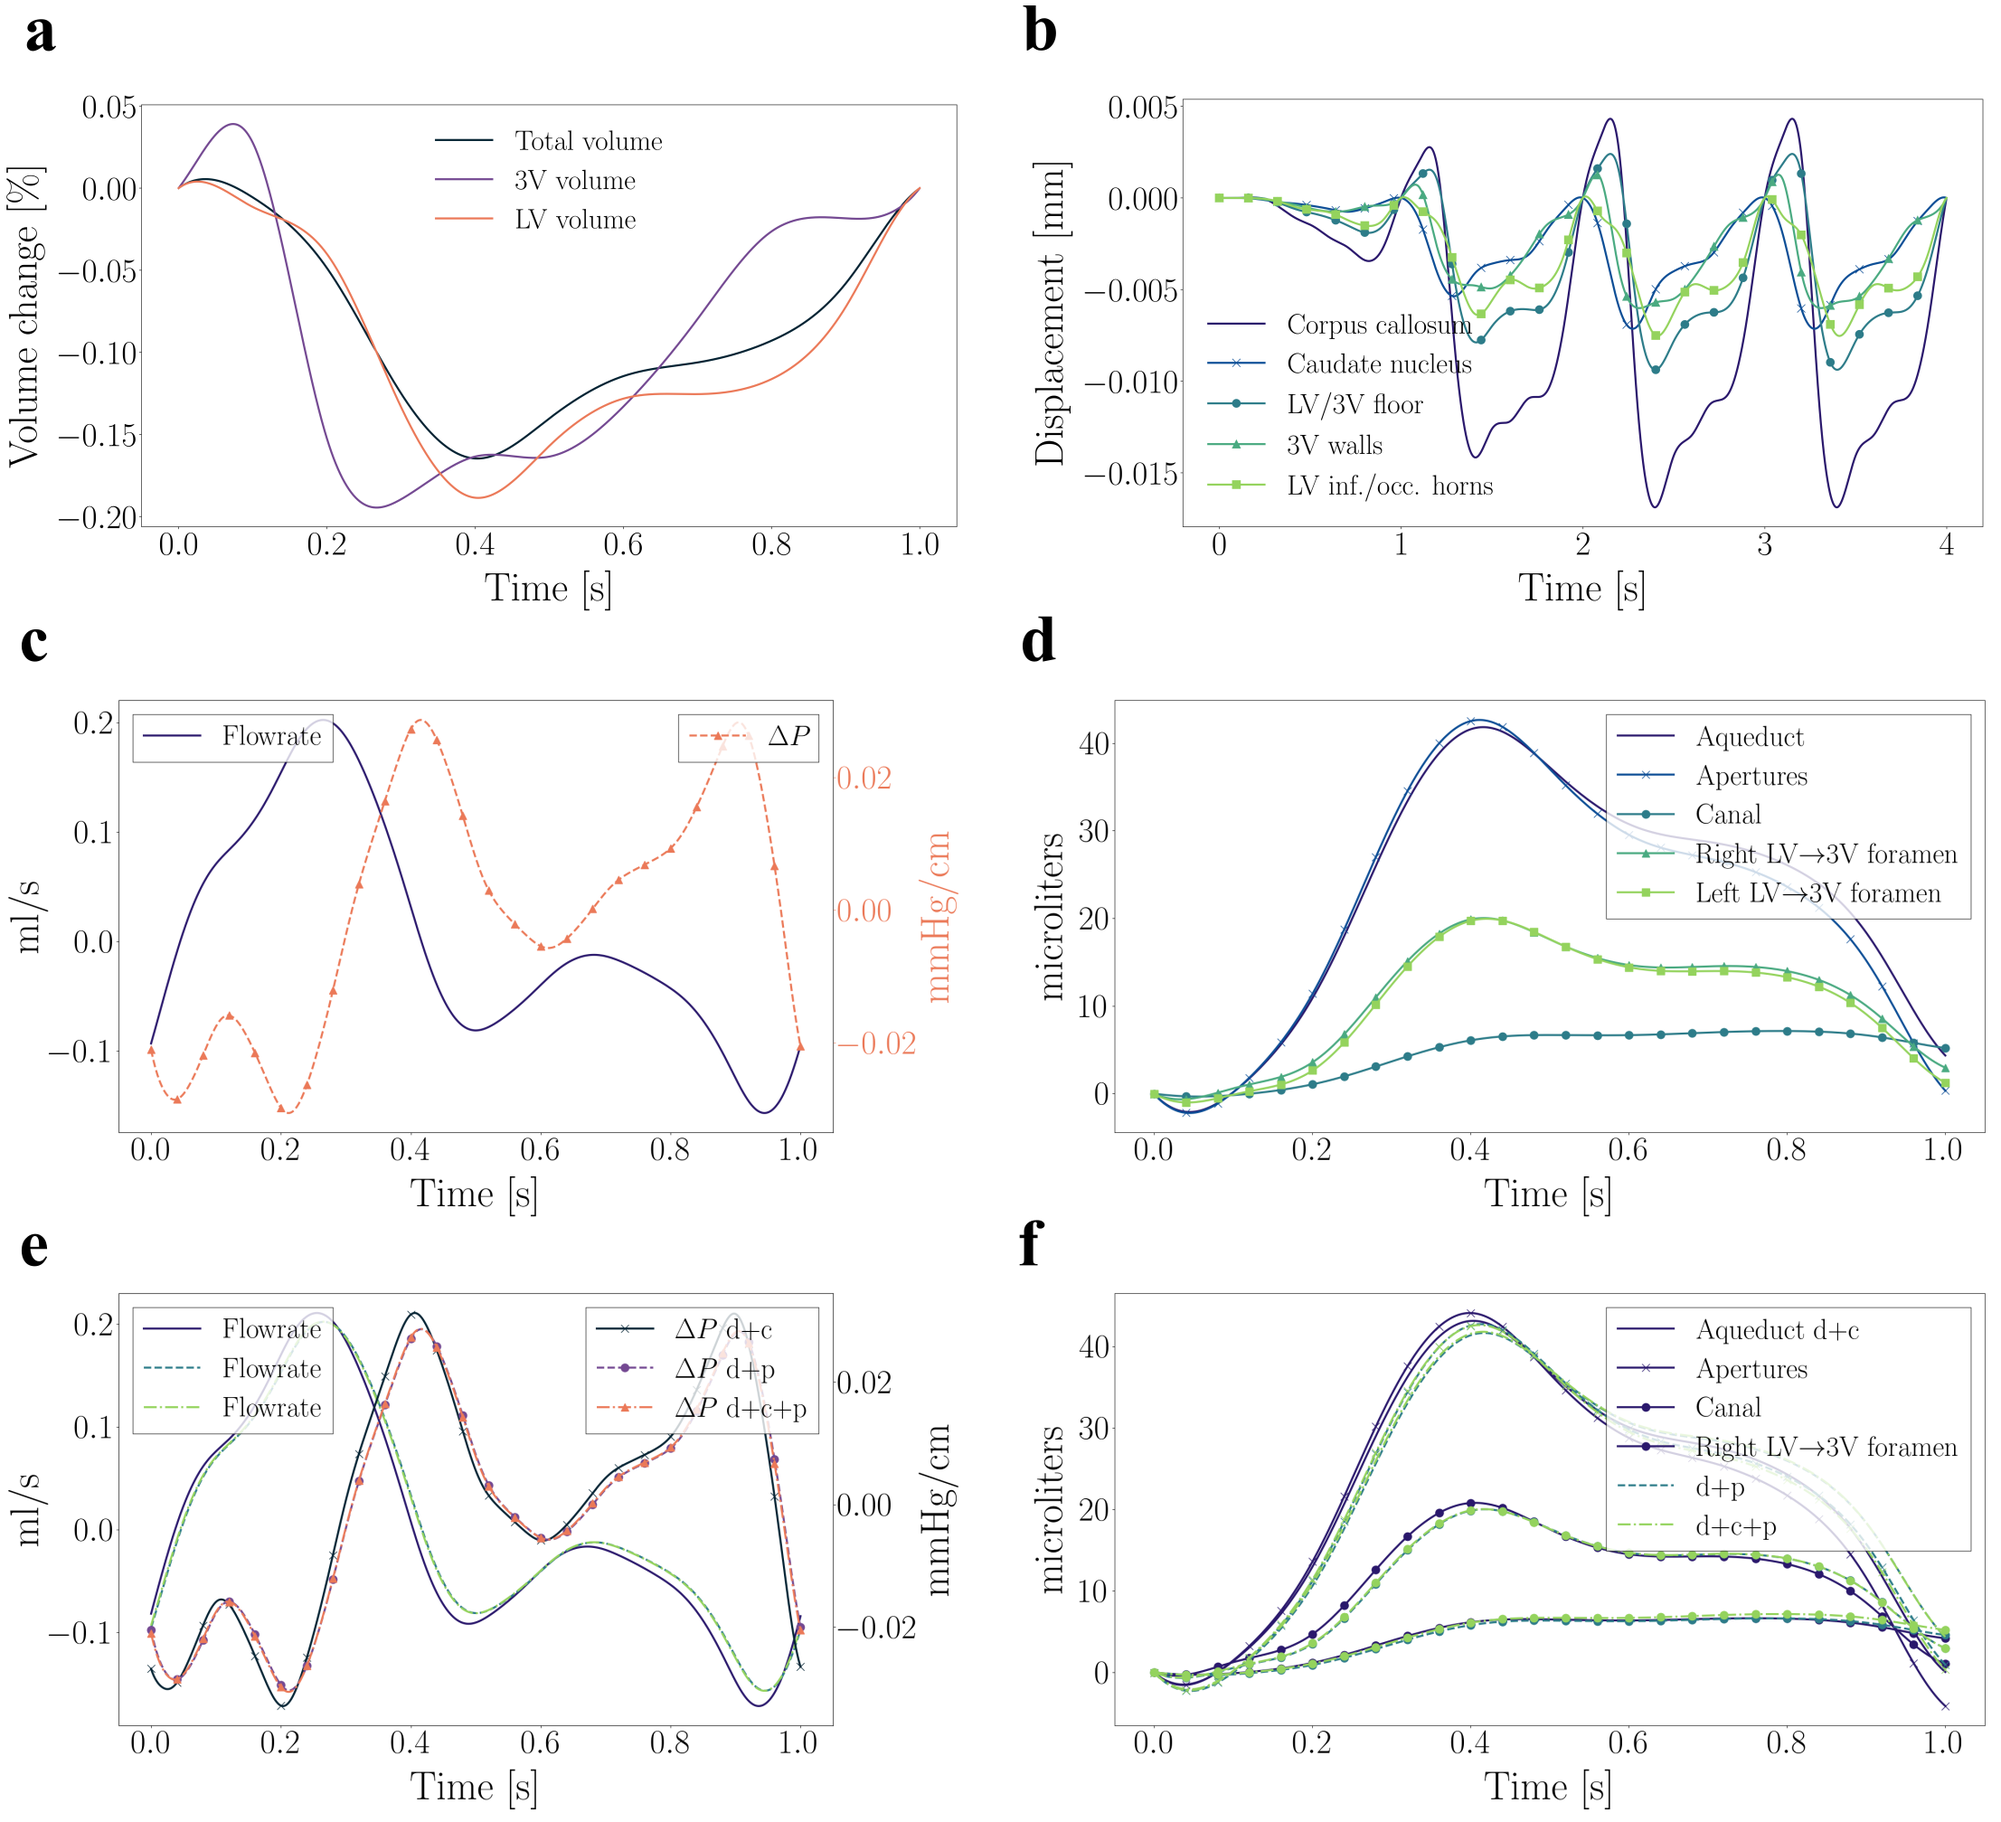
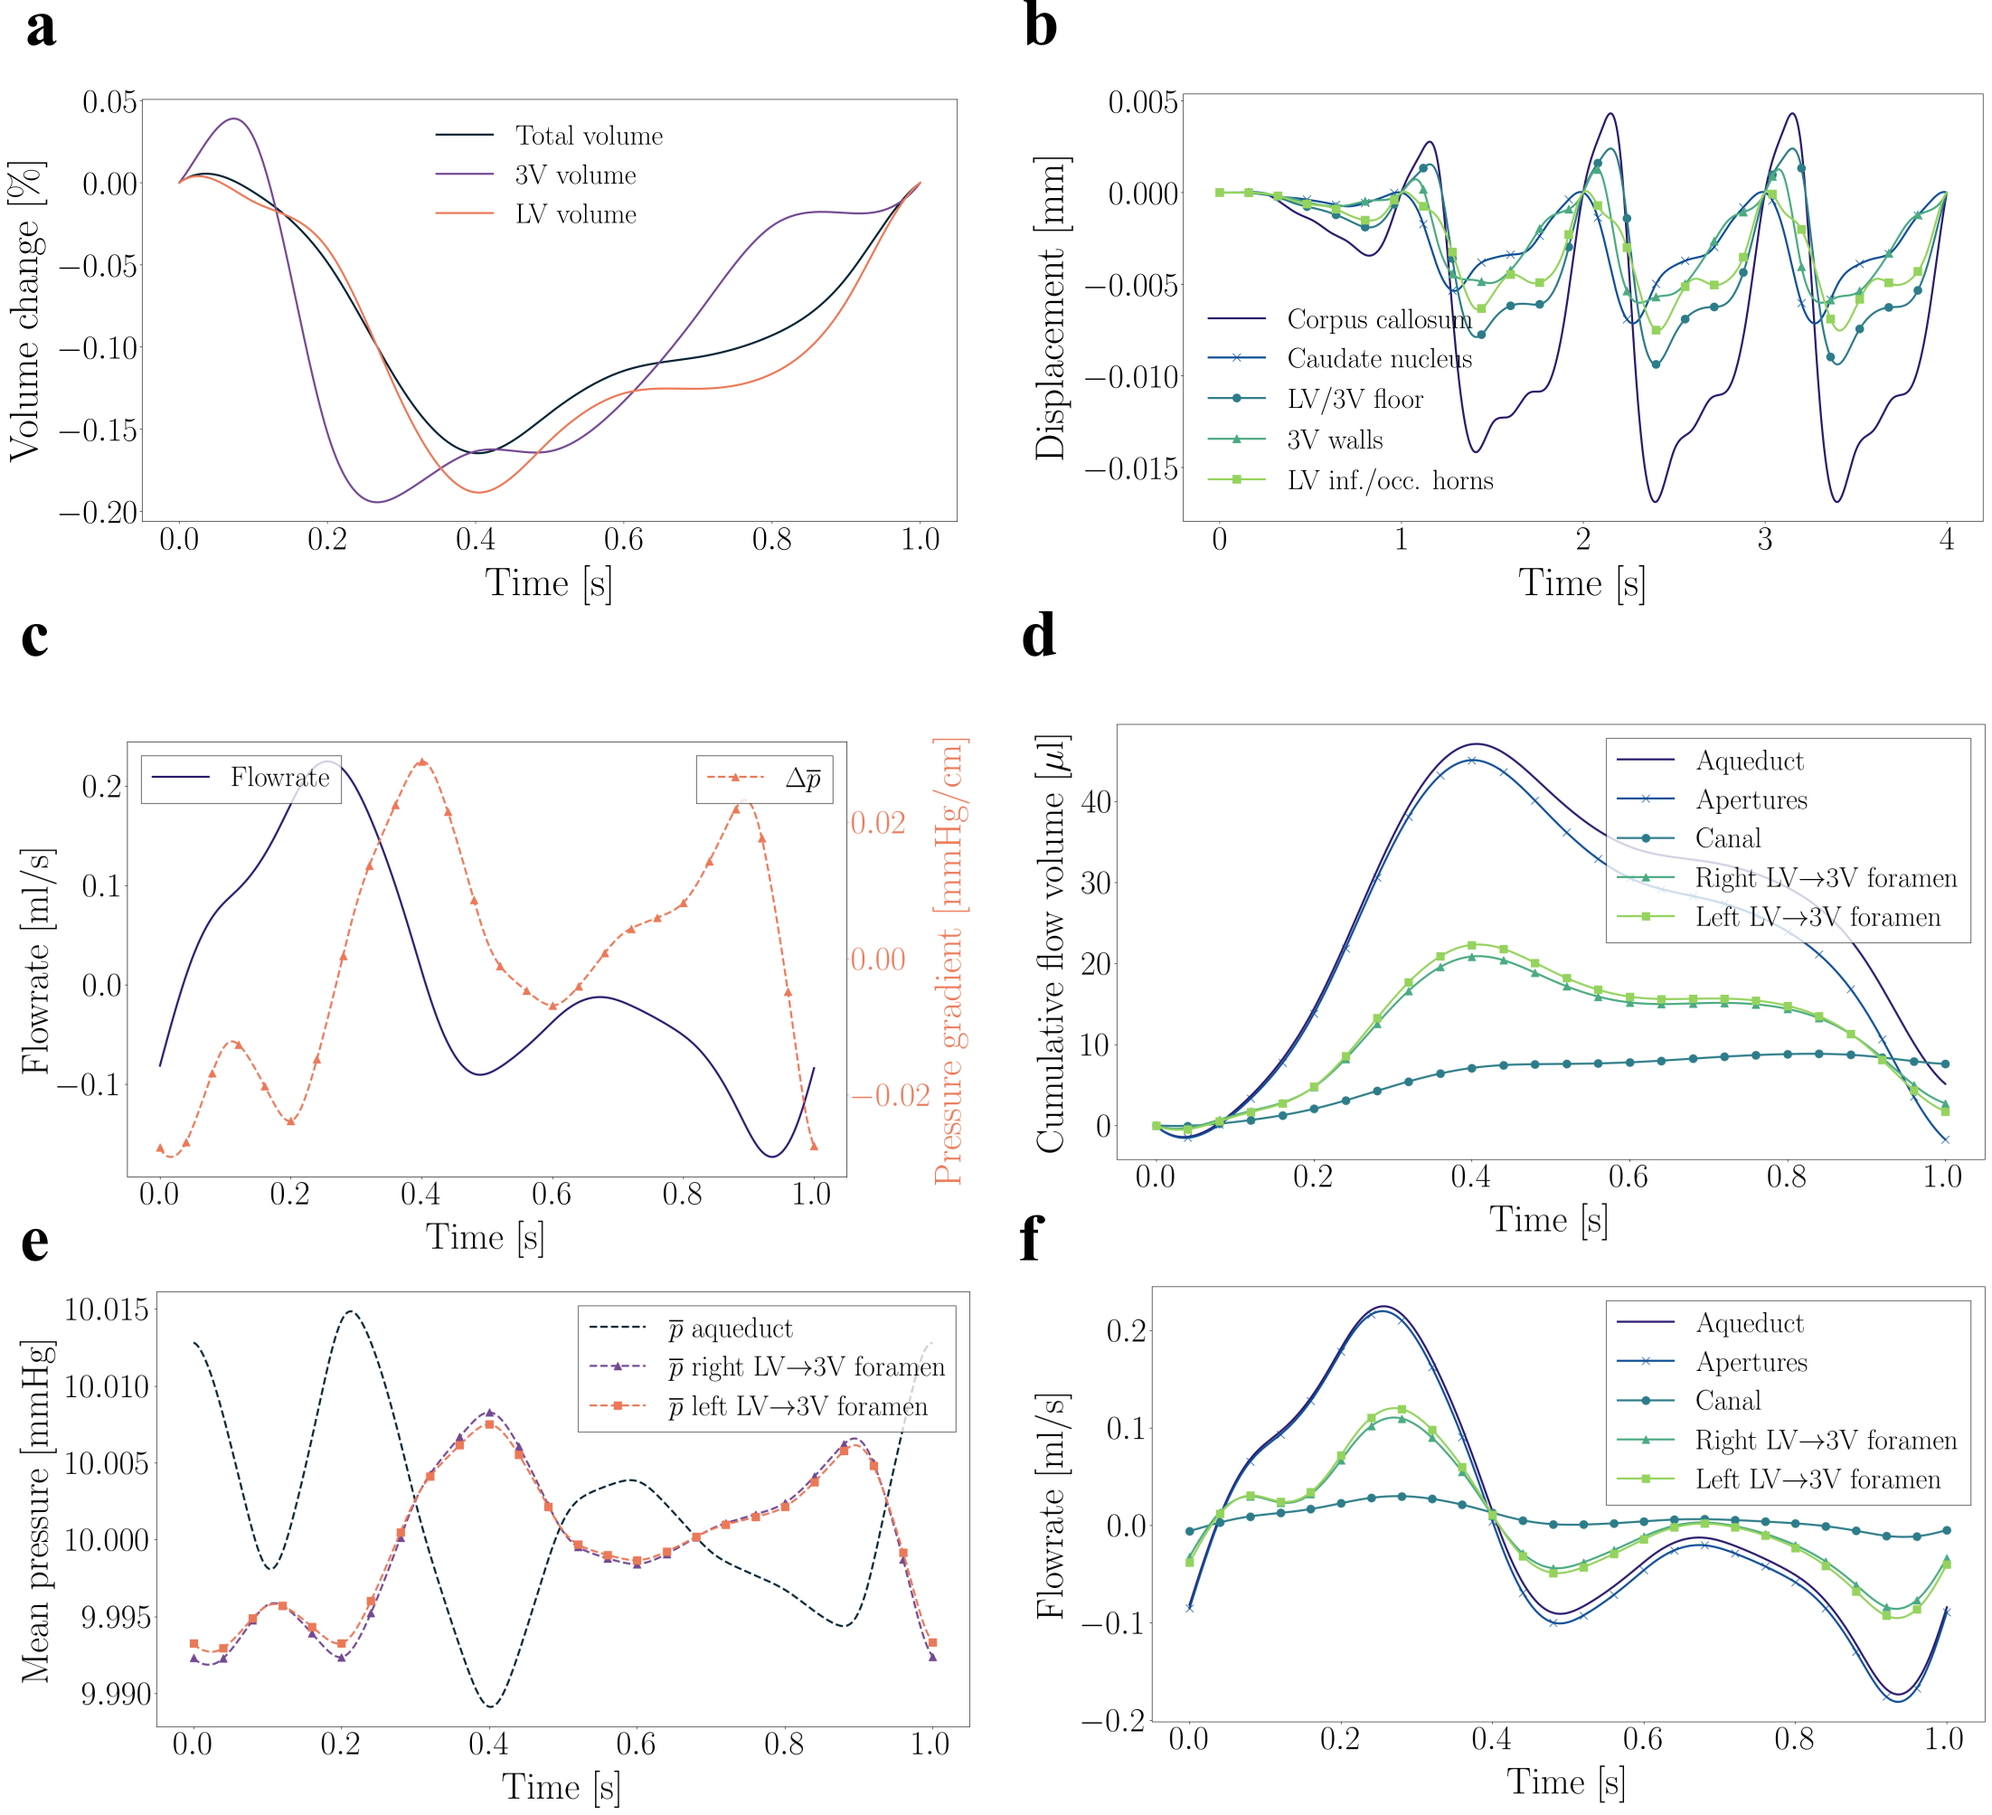
updates

diff --git a/paper/main.tex b/paper/main.tex
@@ -241,12 +241,10 @@ which was originally generated from MRI images. The different parts of the human
 system are denoted in~\Cref{fig:model_sketch}. The standard version of the ventricles mesh
 consists of 408 128 tetrahedral cells with maximal and minimal edge lengths
 of 0.40 cm and 0.023 cm, respectively.
-
 \begin{figure}
     \centering
     \includegraphics[width=\textwidth]{graphics/model_sketch.png}
-    \caption{
-        \textbf{a.} Illustration of the brain ventricular system
+    \caption{\textbf{a.} Illustration of the brain ventricular system
         in the adult human brain, with indication of the
         choroid plexus locations in the lateral, third
         and fourth ventricles. 
@@ -255,7 +253,6 @@ of 0.40 cm and 0.023 cm, respectively.
         of the anterior, middle and posterior ventricles.
         \textbf{c.} Computational mesh of human brain ventricles.
         \textbf{d.} Computational mesh of embryonic zebrafish brain ventricles.
-        
         Parts of this figure were created with BioRender.
         The sketch of the zebrafish brain has been adapted subject
         to the Creative Commons Attribution 4.0 International License
@@ -428,7 +425,7 @@ a closed system.
 
 The following three subsections detail our modeling approach for the three
 types of flow mechanisms outlined above. For a complete specification of
-the resulting boundary conditions, see~\Cref{sec:boundary_conditions}
+the resulting boundary conditions, see~\Cref{sec:boundary_conditions}.
 
 \subsubsection{Brain ventricles deformation}\label{subsubsec:deformation}
 We model CSF flow driven by ventricular wall deformations associated with
@@ -725,7 +722,7 @@ reveal repelling structures (unstable manifolds) of the flow,
 whereas integration backward in time 
 reveal attracting structures (stable manifolds).
 
-\subsection{Numerical methods and software implementation}
+\subsection{Numerical methods}
 \subsubsection{FTLE field computation}
 To compute FTLE fields, we initiate a cartesian grid of particles at a
 time $t_0$ and compute the flow map $\phi_{t_0}^{t_0+T}$
@@ -770,8 +767,8 @@ Herlyng~\emph{et al.}~\cite{Herlyng2025AdvectionDiffusion}.
 
 In time, the fluid equations are discretized with the first-order, implicit
 backward Euler scheme using a timestep $\Delta t = 0.001$ s.
-Since we use an implicit time discretization,
-an initial condition is only needed
+Since we use an implicit time discretization and solve the fluid euquations
+directly, an initial condition is only needed
 for the velocity field, and not the pressure.
 When solving the Stokes equations, the fluid is 
 initially at rest: $\uu_0(\xx)=\uu(\xx, 0)=\bm{0}$.
@@ -780,7 +777,7 @@ For the Navier-Stokes equations, we solve the Stokes equations
 $\uu_{\mathrm{Stokes}}(\xx)$ as initial condition;
 $\uu_0(\xx)=\uu_{\mathrm{Stokes}}(\xx)$. 
 The fluid equations are solved for two cardiac cycles,
-and the velocities of the second cycle is used
+and the velocities $\uu(\xx, t)$ of the second cycle are used
 to calculate FTLE fields.
 
 \subsubsection{Finite element method for the solid equations}
@@ -831,41 +828,44 @@ displacements were imposed strongly. The normal displacements
 were imposed weakly using Nitsche's method~\cite{Nitsche1971UberSind,
 benzaken2024constructing}.
 
-\subsubsection{Model implementation}
+\subsubsection{Software implementation}
 The FTLE field computations are performed with a 
-framework implemented in C in previous work~\cite{shadden}.
+framework implemented in C.
 The finite element methods for the fluid and solid equations
 are implemented and solved with Dolfinx, the Python interface
-of FEniCSx. A direct solver MUMPS is used to solve the linear
-equation systems, with PETSc as backend.
+of FEniCSx. A direct solver MUMPS is used to solve the fluid equations.
+We solve the solid equations iteratively with a Conjugate Gradient method
+with Algebraic Multigrid preconditioning.
 
 \section{Results}
 \subsection{Finite element CSF flow simulations}
 The initial contraction and caudal displacement of the brain ventricles
 during systole leads to a rapid increase in caudal CSF flow through the interventricular
 foramina and cerebral aqueduct (\Cref{fig:flow_results}). In the aqueduct, the flowrate peaks at
-\fixme{0.21 ml/s} after 29\% of the cardiac cycle, a little earlier than the peak
-volume displacement of the ventricles, which totals around $-0.15\%$ and occurs
-40\% throughout the cardiac cycle. When the ventricles relax during diastole,
+0.225 ml/s after 25.6\% of the cardiac cycle. This is a little earlier than the peak
+volume displacement of the ventricles, a volume displacement that totals around $-0.15\%$
+and occurs 40\% throughout the cardiac cycle. When the ventricles relax during diastole,
 the CSF flow reverses and flows cephalic to fill the ventricles
 and the aqueduct flowrate goes through a local minimum, increases slightly,
-then decreases again and bottoms out at \fixme{$-0.17$ ml/s} around
-94\% through the cycle. Finally, flow reverses when transitioning 
+then decreases again and bottoms out at $-0.173$ ml/s around
+93.6\% through the cycle. Finally, flow reverses when transitioning 
 into the next cardiac cycle.
 The pressure gradient in the cerebral aqueduct varies inversely with
-the flowrate behavior, with a peak-to-through range of 0.064 mmHg/cm.
-The maximum CSF velocity magnitude of caudally directed flow is \fixme{10.5 cm/s},
-which is located in the cerebral aqueduct during systole. For cephalic flow,
-the minimum velocity is $-8.4$ cm/s in the aqueduct during diastole.
-The maximum velocity magnitude corresponds to
-a Reynolds number of 495, indicating laminar flow.
-The stroke volume in the cerebral aqueduct was \fixme{43.1 \textmu l}. Most of the displaced
-CSF volume is expelled through the lateral apertures (\fixme{44.1 \textmu l}),
-with only 1/6th of the fluid exiting through the spinal canal (\fixme{6.5 \textmu l}).
+the flowrate behavior, with a peak-to-through range of 0.058 mmHg/cm.
+The maximum CSF velocity magnitude of caudally directed flow is 8.95 cm/s,
+which is located in the cerebral aqueduct during systole at 27\% of the cardiac cycle.
+For cephalic flow, the minimum velocity is $-6.4$ cm/s in the aqueduct at the end of diastole
+after 95.2\% of the cardiac cycle. The maximum velocity magnitude corresponds to
+a Reynolds number of 424, indicating laminar flow.
+The stroke volume in the cerebral aqueduct was 47.1 \textmu l. Most of the displaced
+CSF volume crossing the domain boundary is through the lateral apertures
+(cumulative flow volume 45.1 \textmu l),
+with less fluid flowing in and out of the spinal canal (cumulative flow volume 8.8 \textmu l).
 The flow volumes through the interventricular foramina between the lateral and third 
 ventricles are evenly distributed.
-Flowrates, pressure gradients and cumulative flow volumes computed with the Navier-Stokes
-and the Stokes equations are very similar. 
+
+\fixme{Are flowrates, pressure gradients and cumulative flow volumes computed with the Navier-Stokes
+and the Stokes equations similar?}
 
 \begin{figure}
     \centering
